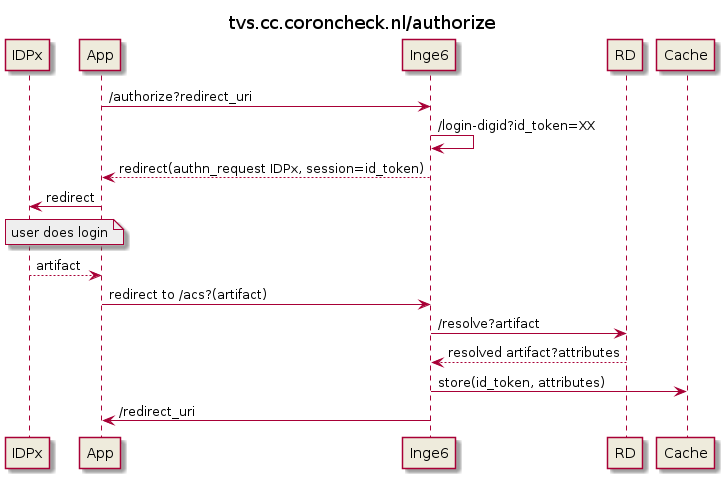
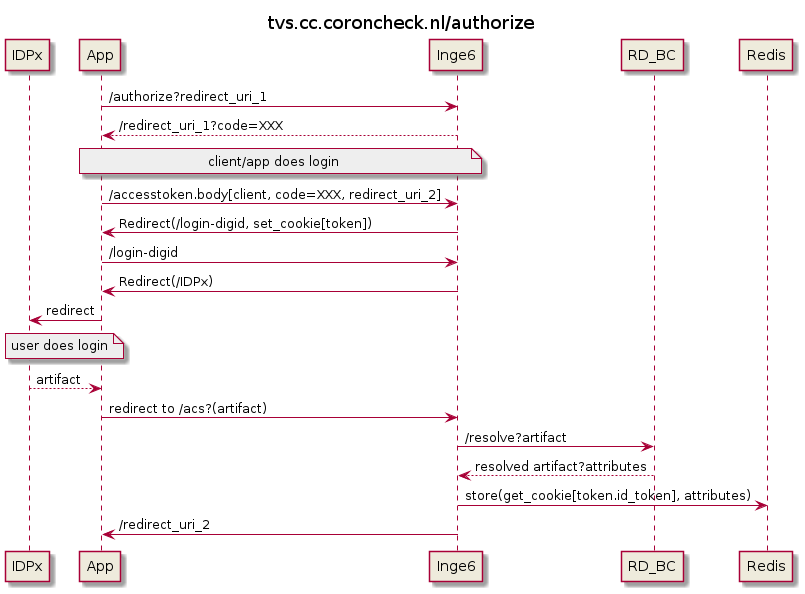
Added docs on code flow

diff --git a/README.md b/README.md
@@ -9,6 +9,7 @@ To run this service make sure you have the following files in place:
 4. For RSA signing of the OIDC cookies we need an RSA keypair. For now generate one, and put into
 the folder: secrets/private_unencrypted.pem
 5. Add your domain to the response_uris list in the clients.json.
+6. Salt: TODO:
 
 Setup a redis server, and set the host and port in `inge-6/config.py`.
 
